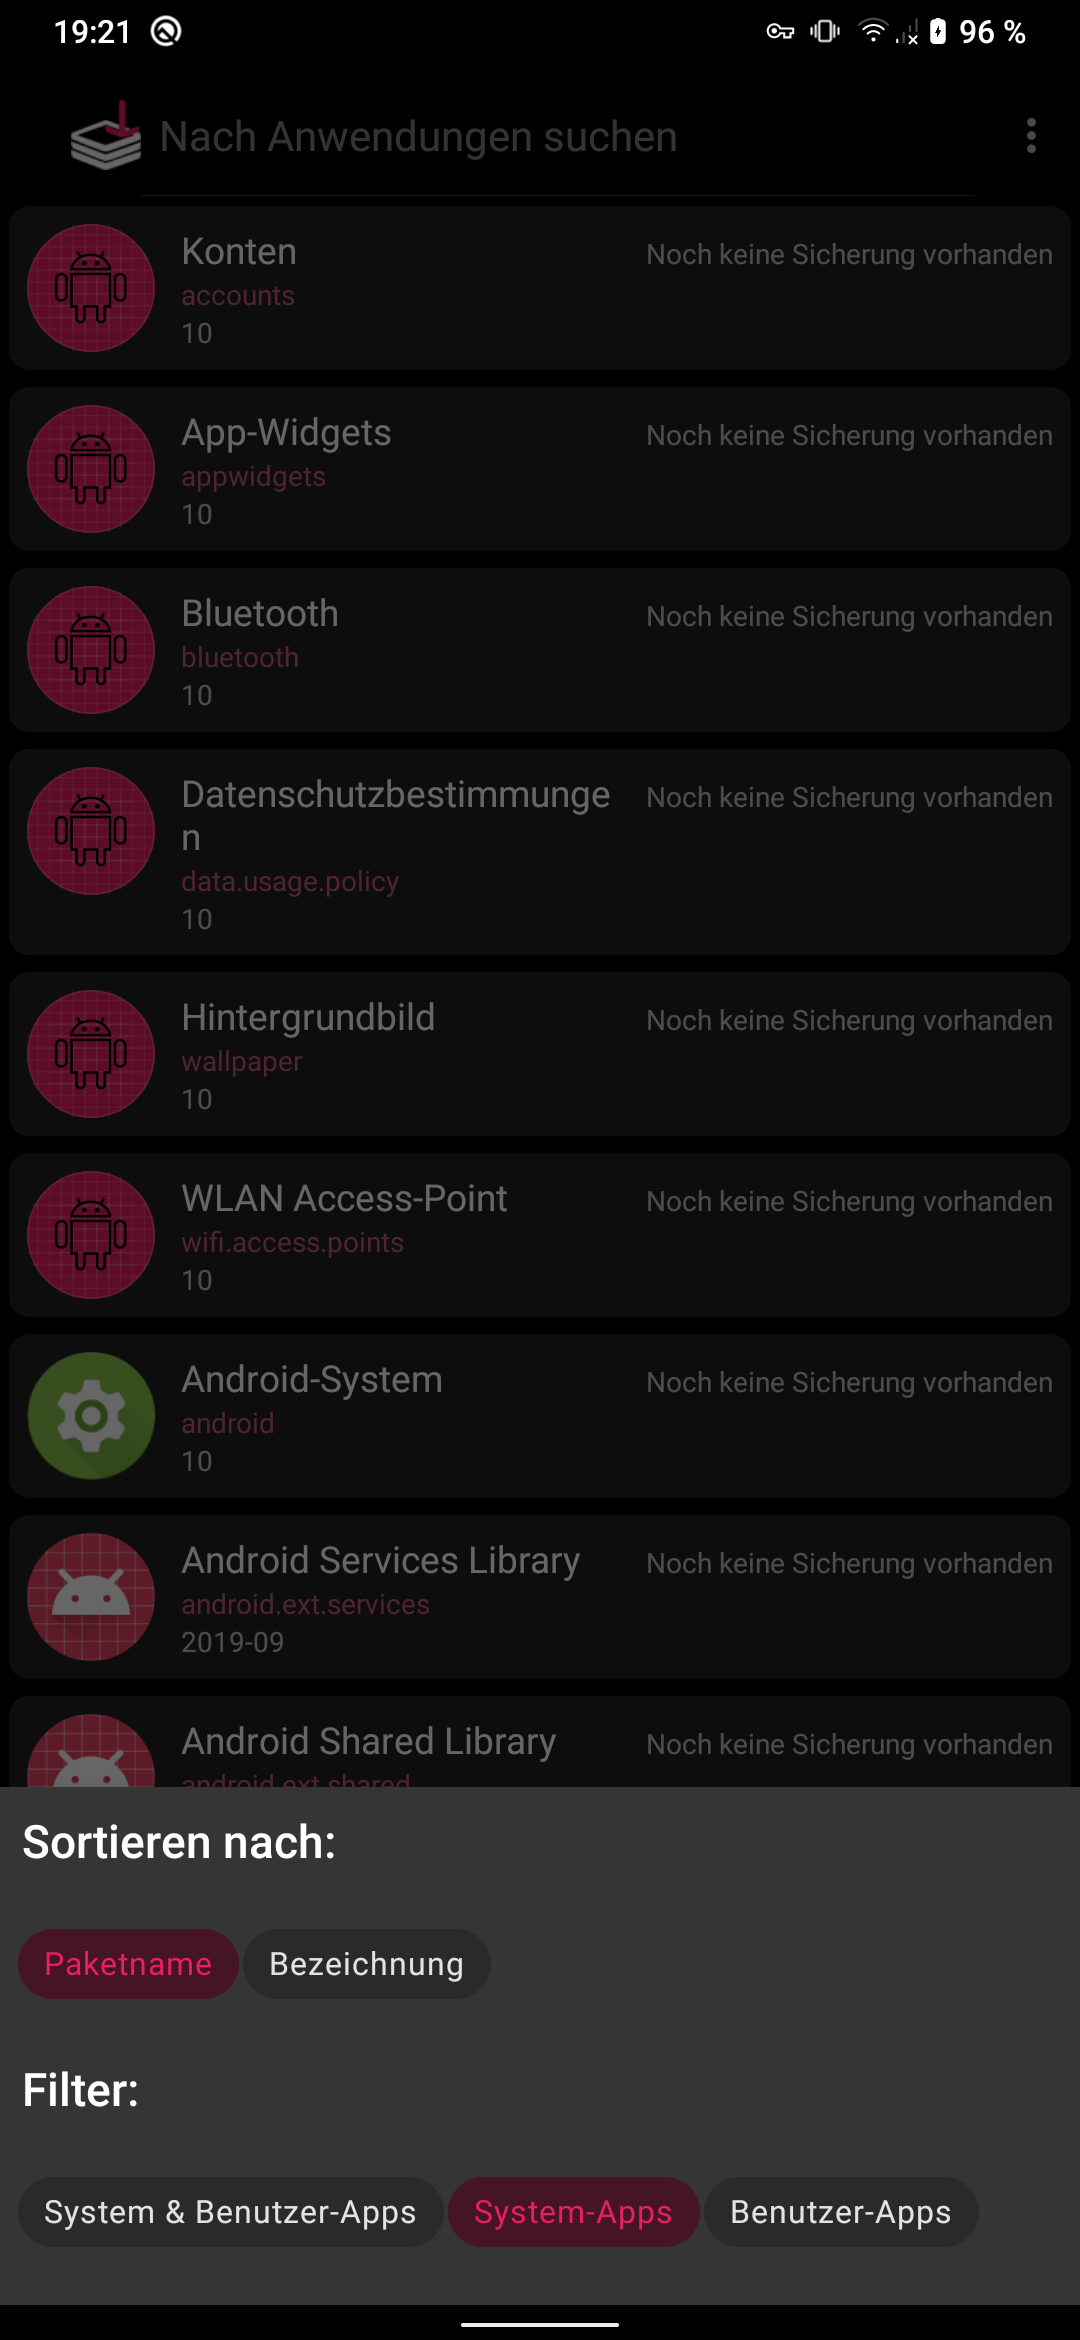
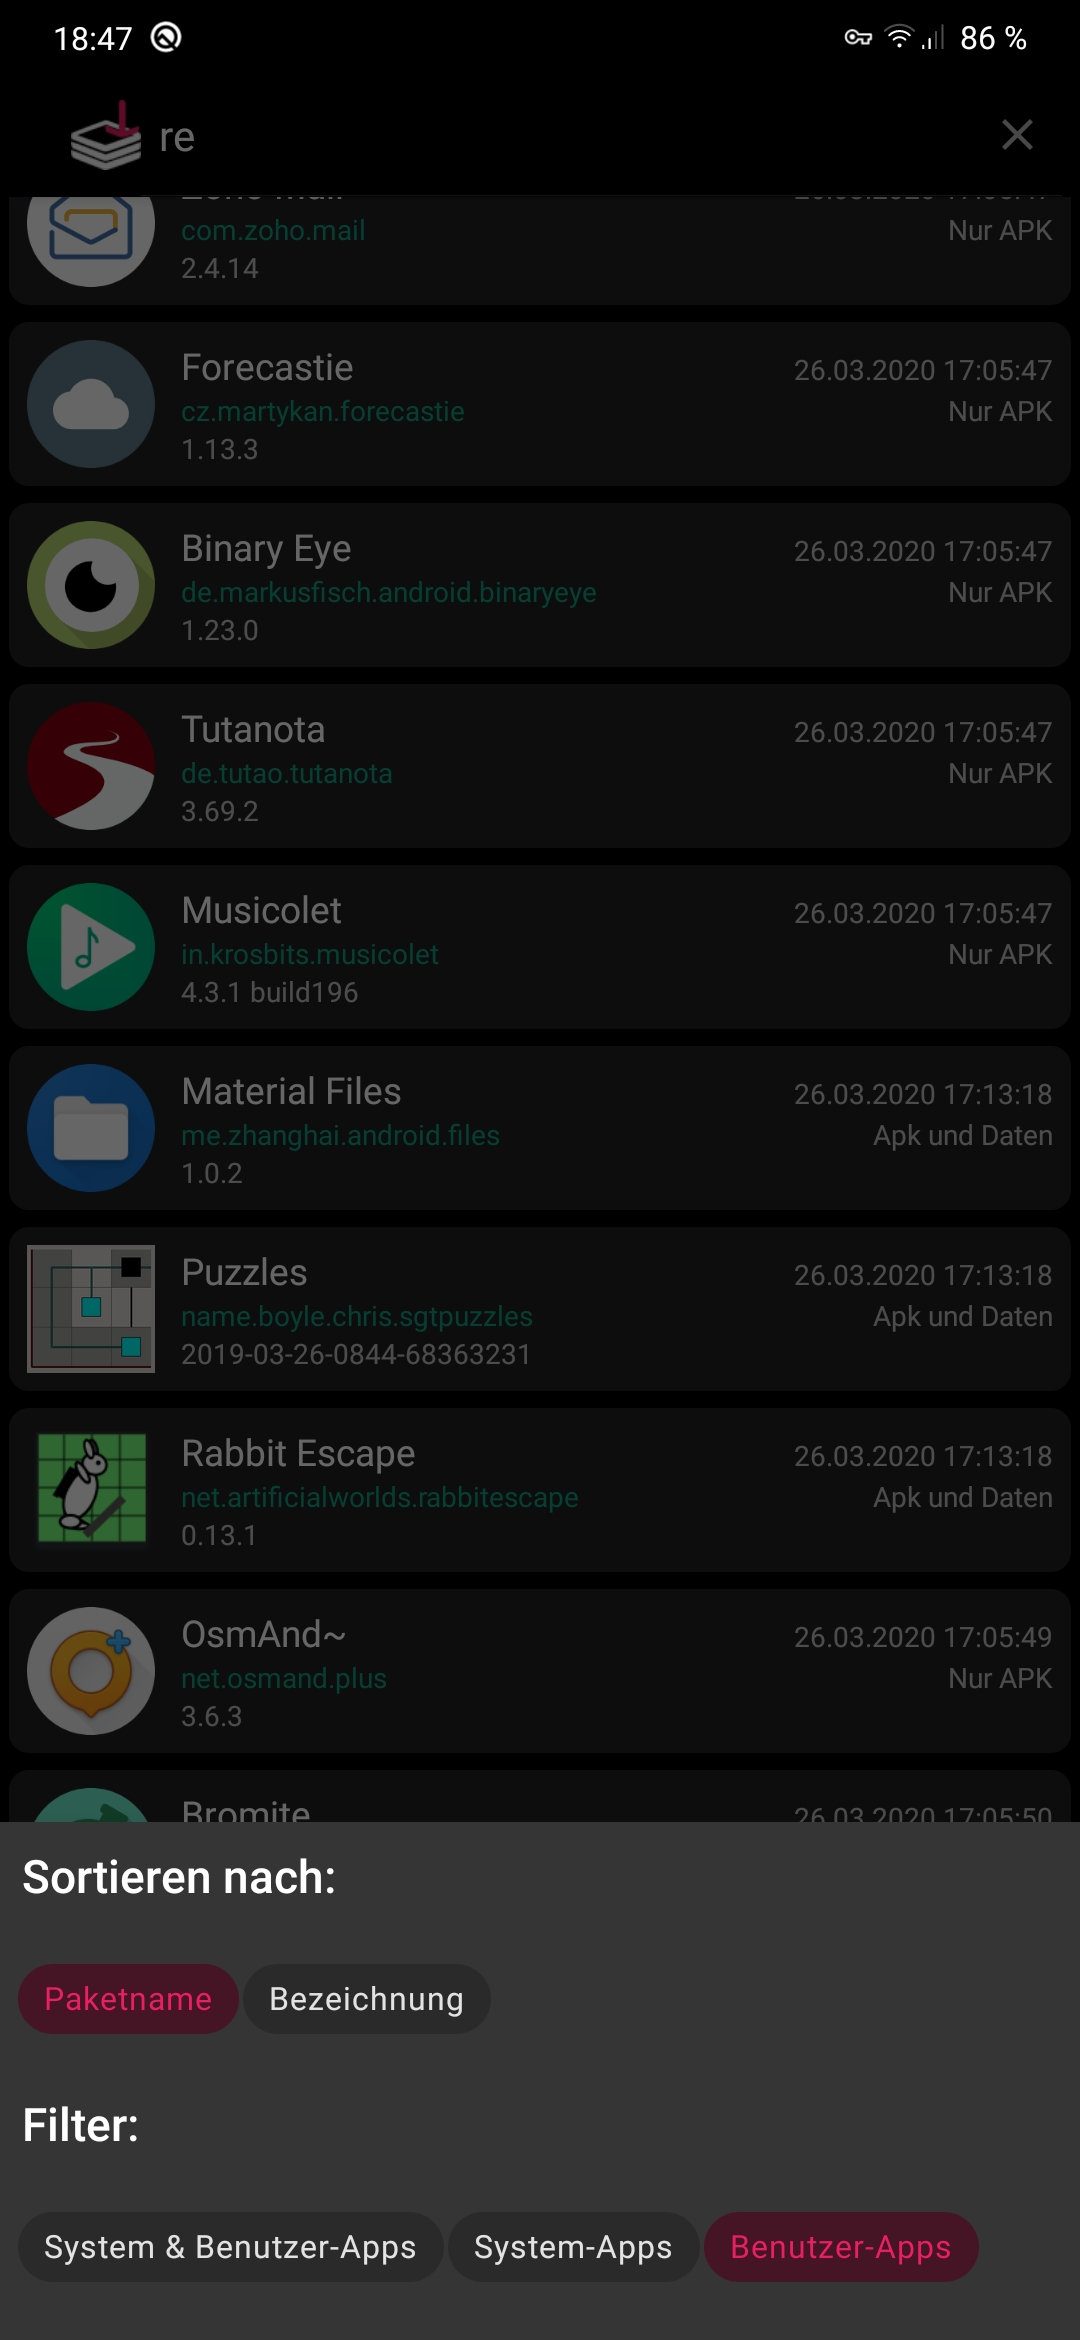
Release 0.1.3
* new UI for Main, Batch and Scheduler
 * fixed: missing "both" as description of backed up mode

diff --git a/README.md b/README.md
@@ -11,7 +11,7 @@ backups can be scheduled with no limit on the number of individual schedules and
 
 - [x] Fixing OAB-Utils build problem which was caused by a deprecated method in Rust
 - [x] Rewrite Batch-(Activity, Adapter and Sorter) 
-- [ ] Rewrite Main-(Activity, Adapter and Sorter): only partially
+- [ ] Rewrite Main-(Activity, Adapter and Sorter): partially done
 - [ ] Rewrite Scheduler
 - [x] BottomNavBar-based navigation 
 - [x] Sort/Filter-FAB
@@ -21,7 +21,7 @@ backups can be scheduled with no limit on the number of individual schedules and
 - [ ] Rewrite backup folder selector
 - [ ] New android external storage permissions compatibility: fixed for Android 10 only for now with legacy mode(fix priority: med)
 - [ ] Update dialogs' UI
-- [ ] Updating UI and UX: Design proposales are always welcome
+- [ ] Updating UI and UX: Design proposales are always welcome: partially done
 - [ ] add more informative dialog when clicking an app in Main
 - [ ] You suggest!...
 
@@ -34,7 +34,6 @@ backups can be scheduled with no limit on the number of individual schedules and
  <img src="https://raw.githubusercontent.com/machiav3lli/OAndBackupX/master/docs/screenshots/3.png" width="170" />
  <img src="https://raw.githubusercontent.com/machiav3lli/OAndBackupX/master/docs/screenshots/4.png" width="170" />
  <img src="https://raw.githubusercontent.com/machiav3lli/OAndBackupX/master/docs/screenshots/5.png" width="170" />
- <img src="https://raw.githubusercontent.com/machiav3lli/OAndBackupX/master/docs/screenshots/6.png" width="170" />
 </p>
 
 

diff --git a/changelog.md b/changelog.md
@@ -1,8 +1,13 @@
 changelog
 =========
 
+0.1.3 (2020-03-27)
+-------------------
+* new UI for Main, Batch and Scheduler
+* fixed: missing "both" as description of backed up mode
+
 0.1.2 (2020-03-27)
---------------------
+-------------------
 * new Main UI
 * fixed refresh in Main
 
